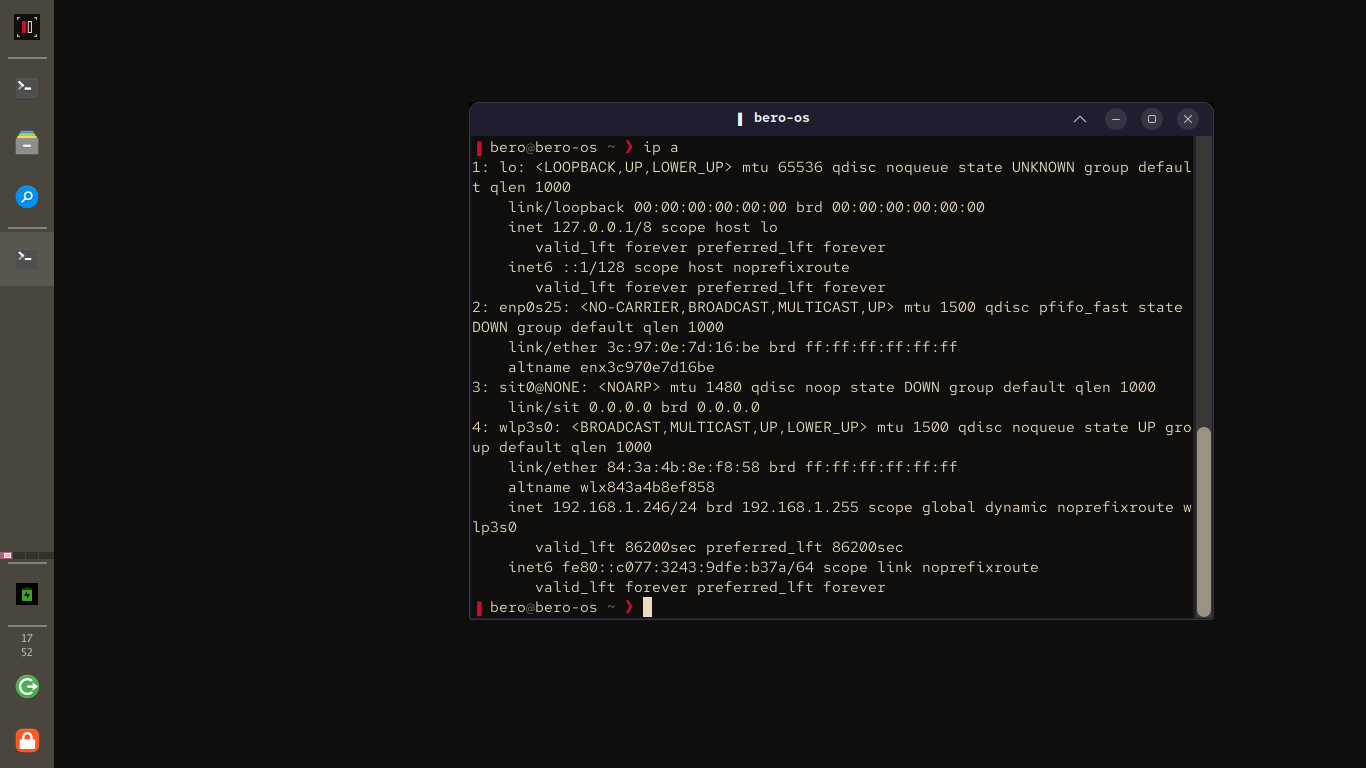
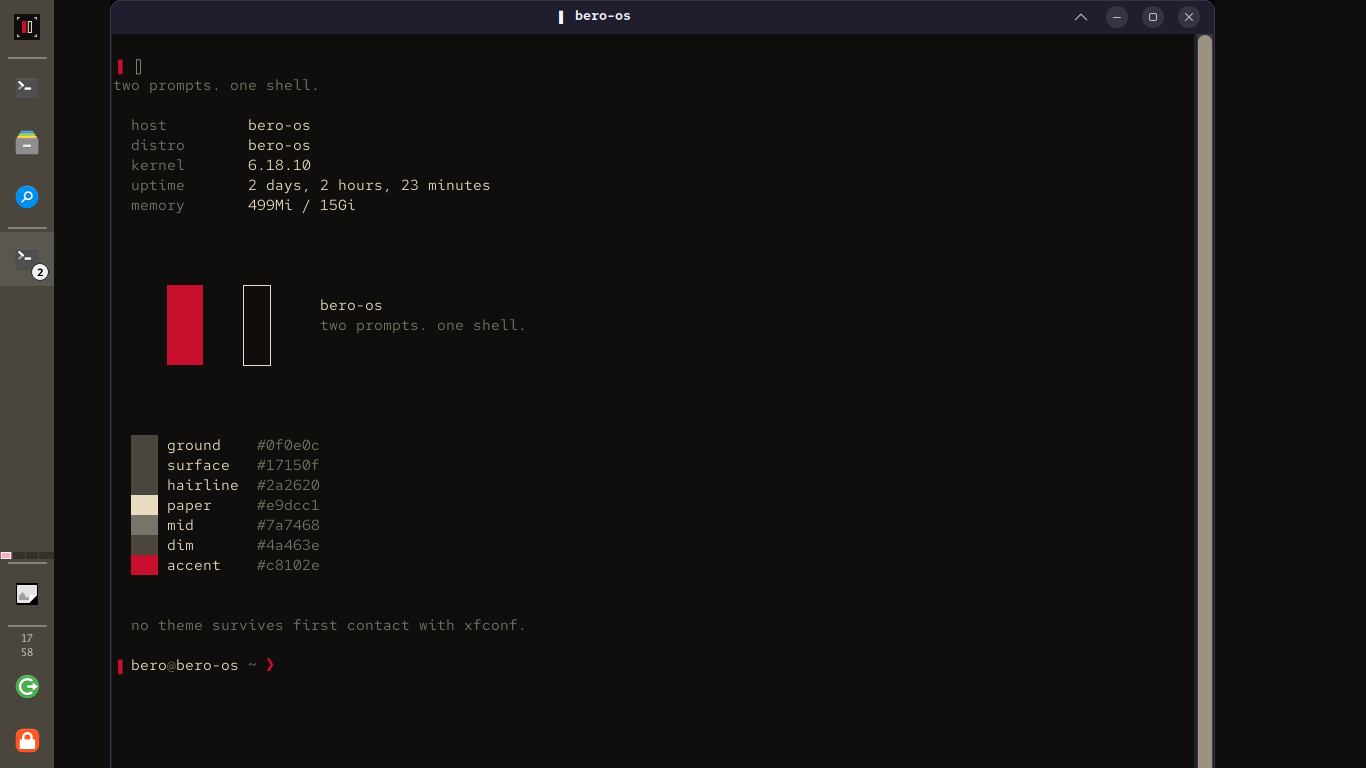
README: real desktop shot with the bero CLI; drop the rendered card

diff --git a/README.md b/README.md
@@ -15,7 +15,7 @@ A Linux distribution I built from source, one package at a time, on a 2012 Think
 It boots, it runs a desktop, it gets on wifi, it plays sound, and I daily-drive it from the laptop it lives on. Everything on the box that isn't a stock upstream file is mirrored in this repo.
 
 <p align="center">
-  <img src="docs/screenshots/desktop-2026-09-13.png" width="820" alt="bero-os desktop: XFCE with the Workshop Rail dock and the branded terminal">
+  <img src="docs/screenshots/desktop-2026-09-13.png" width="820" alt="bero-os desktop: the Workshop Rail dock and the bero CLI in the branded terminal">
 </p>
 
 ## What's actually in it
@@ -31,10 +31,6 @@ It boots, it runs a desktop, it gets on wifi, it plays sound, and I daily-drive 
 | Package layer | Nix 2.34, multi-user, flakes-first. Firefox and Claude Code come from nixpkgs, everything else is compiled here |
 | Toolchain | Rust 1.93, Python 3.14, Perl 5.42, cmake, meson, ninja. Around 300 packages in `/sources` |
 | Brand | A palette, a two-cursor mark, Red Hat Mono everywhere, a `bero` CLI, and a few easter eggs I'm not going to list |
-
-<p align="center">
-  <img src="docs/screenshots/bero-cli.png" width="700" alt="the bero CLI: info, art, palette, fortune">
-</p>
 
 ## How the repo works
 
@@ -96,7 +92,7 @@ A self-audit against the BLFS book in late May found the gaps honestly. The big 
 
 ## Hardware
 
-ThinkPad X230. Intel i5-3320M, 16 GB RAM, 240 GB SSD, 1366x768 panel, Intel Centrino Advanced-N 6205 wifi, Realtek ALC269VC audio.
+ThinkPad X230. Intel i5-3320M, 16 GB RAM, 256 GB SanDisk SSD, 1366x768 panel, Intel Centrino Advanced-N 6205 wifi, Realtek ALC269VC audio.
 
 ## Brand
 
